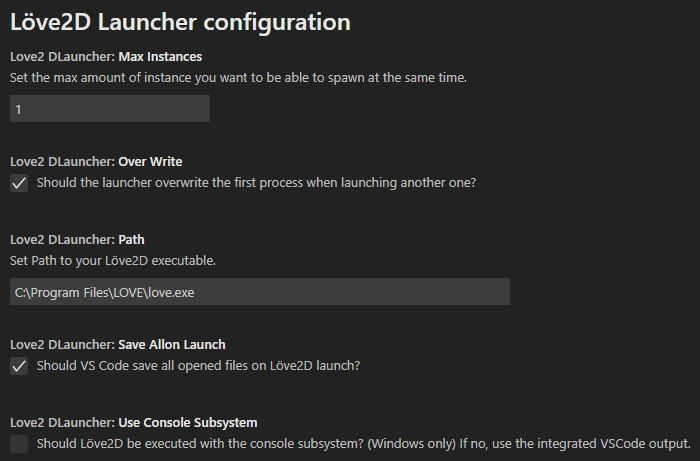
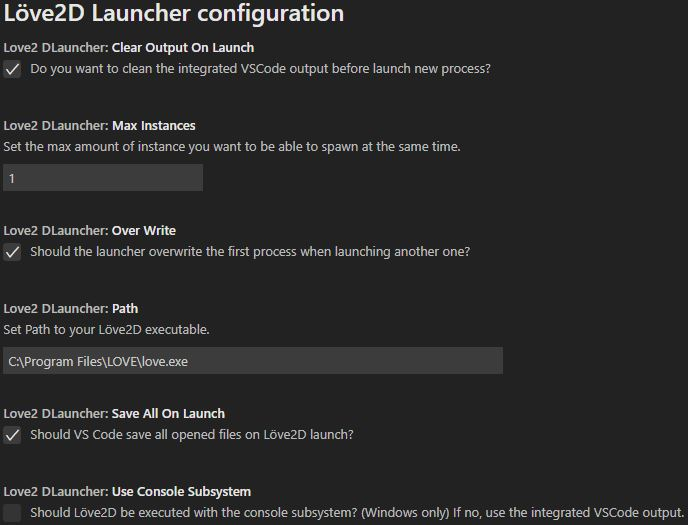
Add option to clear integrated output + Add french description on README

Changed region(s): [[0.0, 0.0, 0.7326, 0.8503], [0.0, 0.9111, 1.0, 1.0]]

diff --git a/src/extension.ts b/src/extension.ts
@@ -13,9 +13,10 @@ export function activate(context: vscode.ExtensionContext) {
         if(currentInstances.length < maxInstances || overWrite){
             var path : string = vscode.workspace.getConfiguration('love2DLauncher').get('path').toString();
             var useConsoleSubsystem = vscode.workspace.getConfiguration('love2DLauncher').get('useConsoleSubsystem');
-            var saveAllonLaunch = vscode.workspace.getConfiguration('love2DLauncher').get('saveAllonLaunch');
+            var saveAllOnLaunch = vscode.workspace.getConfiguration('love2DLauncher').get('saveAllOnLaunch');
+            var clearOutputOnLaunch = vscode.workspace.getConfiguration('love2DLauncher').get('clearOutputOnLaunch');
 
-            if (saveAllonLaunch){
+            if (saveAllOnLaunch){
                 vscode.workspace.saveAll();
             }
 
@@ -28,6 +29,11 @@ export function activate(context: vscode.ExtensionContext) {
             }
 
             if(!useConsoleSubsystem){
+                
+                if (clearOutputOnLaunch){
+                    output.clear()
+                }
+
                 var process = exec(path, [vscode.workspace.rootPath]);
 
                 process.stdout.on('data', function(data) {
@@ -60,7 +66,7 @@ export function activate(context: vscode.ExtensionContext) {
 export function deactivate() {
 }
 
-function on_exit(oprocess){
-    currentInstances.splice(oprocess.pid, 1);
+function on_exit(oProcess){
+    currentInstances.splice(oProcess.pid, 1);
     currentInstances = currentInstances.filter(Boolean);
 }

diff --git a/README.md b/README.md
@@ -1,4 +1,5 @@
-# vscode-love2d-launcher
+# English
+
 A Löve2D Launcher Extension for Visual Studio Code
 
 This is a fork of [vscode-love-launcher](https://github.com/JanWerder/vscode-love-launcher)
@@ -16,3 +17,25 @@ This is a fork of [vscode-love-launcher](https://github.com/JanWerder/vscode-lov
 ## Sources
 
 You are free to use, modify and redistribute [it](https://github.com/TheMenerv/vscode-love2d-launcher)!
+
+# Français
+
+Extension pour exécuter un projet Löve2D dans Visual Studio Code
+
+Il s'agit d'une extension basée sur [vscode-love-launcher](https://github.com/JanWerder/vscode-love-launcher)
+
+## Utilisation
+
+1. Configurer le chemin vers l'exécutable Löve2d
+2. Ouvrir un projet Löve2D dans votre espace de travail
+3. Presser les touches ALT+L pour exécuter les sources avec Löve2D
+
+## Configuration
+
+![](https://raw.githubusercontent.com/TheMenerv/vscode-love2d-launcher/master/params.jpg)
+
+## Sources
+
+Vous êtes authorisés à utiliser, modifier et redistribuer les [sources](https://github.com/TheMenerv/vscode-love2d-launcher) !
+
+> **Apprenez à coder avec la meilleure formation en français sur [Gamecodeur](https://www.gamecodeur.fr)**
